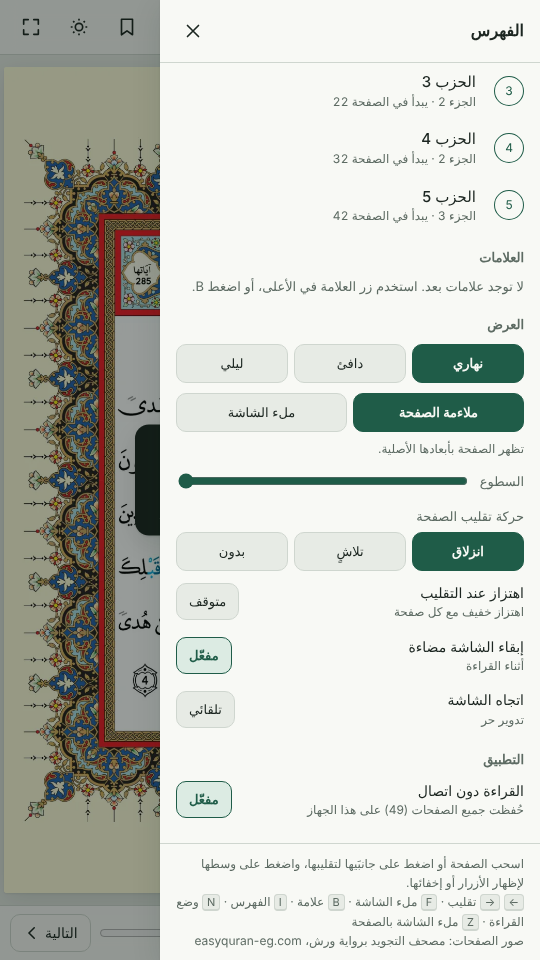
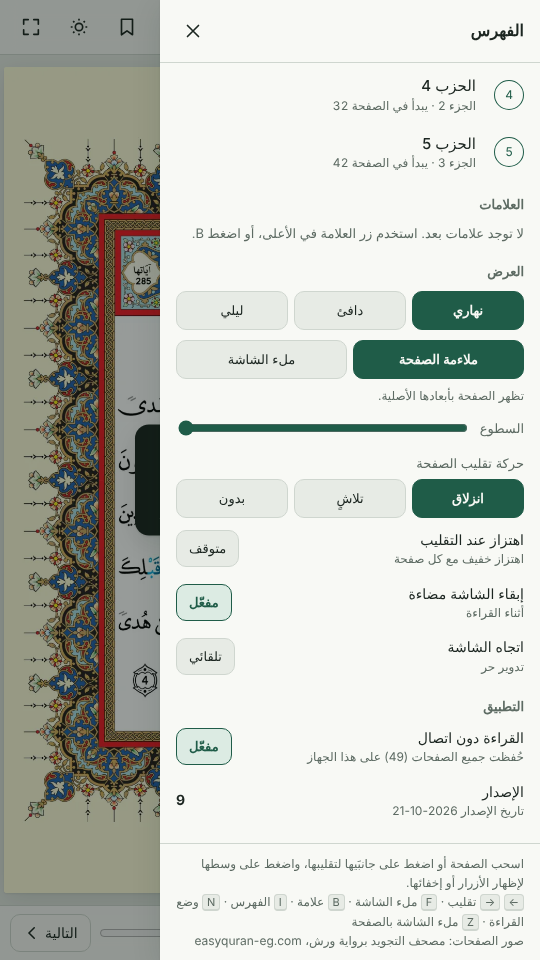
Show an app version in the settings that rises with every commit
version.js holds the number and date; a pre-commit hook in .githooks raises it on each commit. The settings show it under App, and sw.js imports it to name the shell cache, so every release is picked up as an update without editing sw.js by hand.

Claude-Session: https://claude.ai/code/session_016P4nmm3uinSdpAbEJH42wX

diff --git a/index.html b/index.html
@@ -9,6 +9,7 @@
 <meta name="theme-color" content="#1f5c48">
 <meta name="color-scheme" content="light dark">
 <link rel="manifest" href="manifest.webmanifest">
+<script src="version.js"></script>
 <link rel="icon" type="image/png" sizes="32x32" href="icons/favicon-32.png">
 <link rel="apple-touch-icon" href="icons/apple-touch-icon.png">
 <title>مصحف ورش · الفاتحة والبقرة</title>
@@ -238,6 +239,7 @@ kbd{font:11px var(--f-ui);border:1px solid var(--line);border-bottom-width:2px;b
     <div class="sec">التطبيق</div>
     <div class="row2"><span>القراءة دون اتصال<small id="offNote">جارٍ التحقق…</small></span><button class="pill" id="offBtn" aria-pressed="false" disabled>متوقف</button></div>
     <div class="meter" id="offMeter" hidden><i id="offBar"></i></div>
+    <div class="row2"><span>الإصدار<small id="verDate"></small></span><b id="verNo" dir="ltr"></b></div>
     <div class="row2" id="installRow" hidden><span>تثبيت التطبيق<small>أضفه إلى الشاشة الرئيسية</small></span><button class="pill primary" id="installBtn">تثبيت</button></div>
   </div>
   <div class="foot">
@@ -430,6 +432,10 @@ function buzzUi(){ var b=$('buzzBtn'); b.textContent = !canBuzz ? 'غير مدع
 function buzz(){ if(buzzOn && canBuzz){ try{ navigator.vibrate(12); }catch(_){} } }
 $('buzzBtn').onclick=function(){ buzzOn=!buzzOn; store.set('buzz',buzzOn); buzzUi(); if(buzzOn) buzz(); };
 setAnim(animMode); buzzUi();
+
+/* ---------- version (version.js, raised on every commit) ---------- */
+$('verNo').textContent = self.APP_VERSION || '–';
+$('verDate').textContent = self.APP_DATE ? 'تاريخ الإصدار '+self.APP_DATE : '';
 
 /* ---------- bookmarks ---------- */
 var toastTimer;

diff --git a/sw.js b/sw.js
@@ -1,7 +1,9 @@
-// Shell is versioned (bump SHELL to ship an update); page images live in their own cache and survive shell updates.
-const SHELL = 'warsh-shell-v9';
+// The shell cache is named after the app version (version.js, raised on every commit), so each release
+// installs fresh; page images live in their own cache and survive shell updates.
+importScripts('version.js');
+const SHELL = 'warsh-shell-v' + self.APP_VERSION;
 const PAGE_CACHE = 'warsh-pages-v1';
-const ASSETS = ['./', './index.html', './manifest.webmanifest', './icons/icon-192.png', './icons/icon-512.png', './icons/icon-maskable-192.png', './icons/icon-maskable-512.png', './icons/icon-monochrome-512.png', './icons/apple-touch-icon.png', './icons/favicon-32.png'];
+const ASSETS = ['./', './index.html', './version.js', './manifest.webmanifest', './icons/icon-192.png', './icons/icon-512.png', './icons/icon-maskable-192.png', './icons/icon-maskable-512.png', './icons/icon-monochrome-512.png', './icons/apple-touch-icon.png', './icons/favicon-32.png'];
 
 self.addEventListener('install', e => {
   e.waitUntil(caches.open(SHELL).then(c => c.addAll(ASSETS)));   // no skipWaiting: the page offers the update

diff --git a/version.js b/version.js
@@ -1,0 +1,4 @@
+// App version, shown in the settings and used to name the offline cache.
+// Raised by one on every commit by .githooks/pre-commit; do not edit by hand.
+self.APP_VERSION = 10;
+self.APP_DATE = "2026-10-21";

diff --git a/README.md b/README.md
@@ -16,7 +16,14 @@
 - أوضاع القراءة: نهاري، دافئ، ليلي، مع شريط للتحكم في السطوع (المفتاح `N` يبدّل الوضع).
 - تقليب الصفحات بالسحب (تتبع الصفحة الإصبع) أو بالضغط على الجانبين، مع خيار لحركة التقليب (انزلاق، تلاشٍ، بدون) وخيار للاهتزاز عند كل صفحة.
 - حجم الصفحة: «ملاءمة الصفحة» بأبعادها الأصلية، أو «ملء الشاشة» لتمديد الصفحة على الشاشة كلها (المفتاح `Z`).
-- تنبيه عند توفر إصدار جديد (لإصدار تحديث غيّر قيمة `SHELL` في `sw.js`).
+- رقم الإصدار يظهر في الإعدادات (الفهرس ← التطبيق ← الإصدار)، ويزيد واحداً مع كل تعديل (commit)، ويظهر تنبيه للتحديث عند نشر إصدار جديد.
 - زر للتثبيت، واختصارات على أيقونة التطبيق (سورة الفاتحة، سورة البقرة، العلامات)، وإبقاء الشاشة مضاءة، وتثبيت اتجاه الشاشة.
+
+## رقم الإصدار
+الرقم محفوظ في `version.js`، ويزيده خطّاف git تلقائياً مع كل commit. فعّله مرة واحدة في كل نسخة من المستودع:
+
+```
+git config core.hooksPath .githooks
+```
 
 </div>
